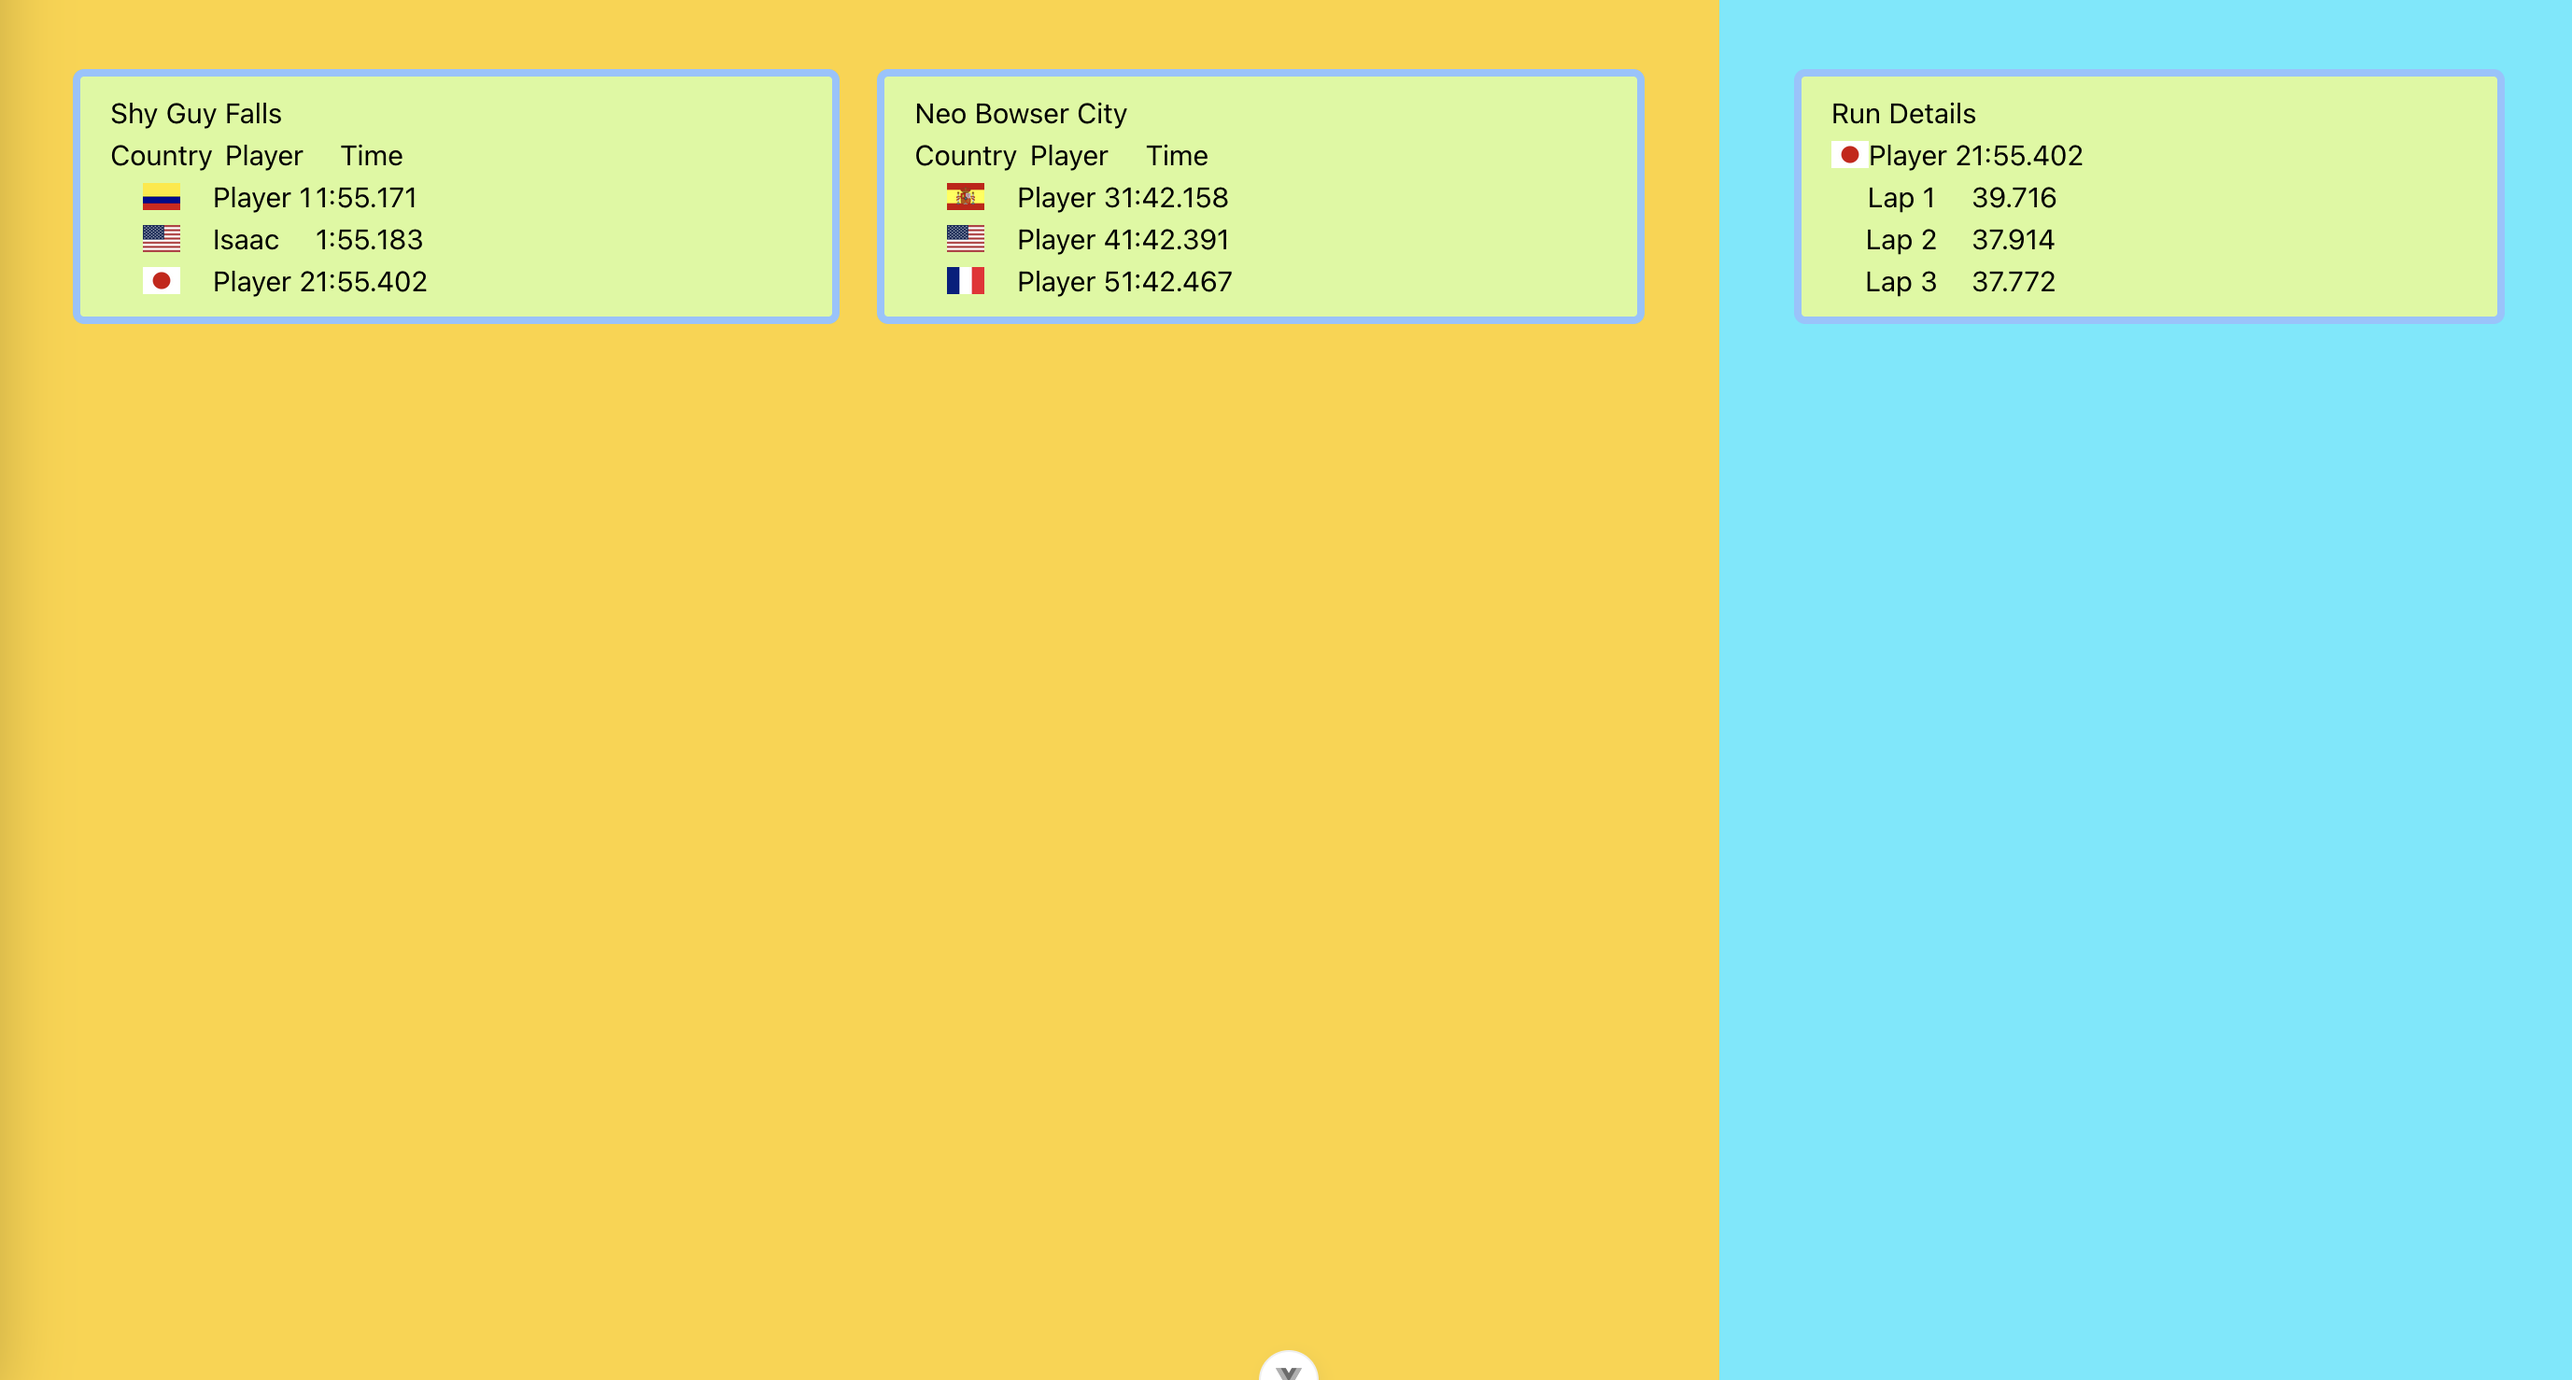
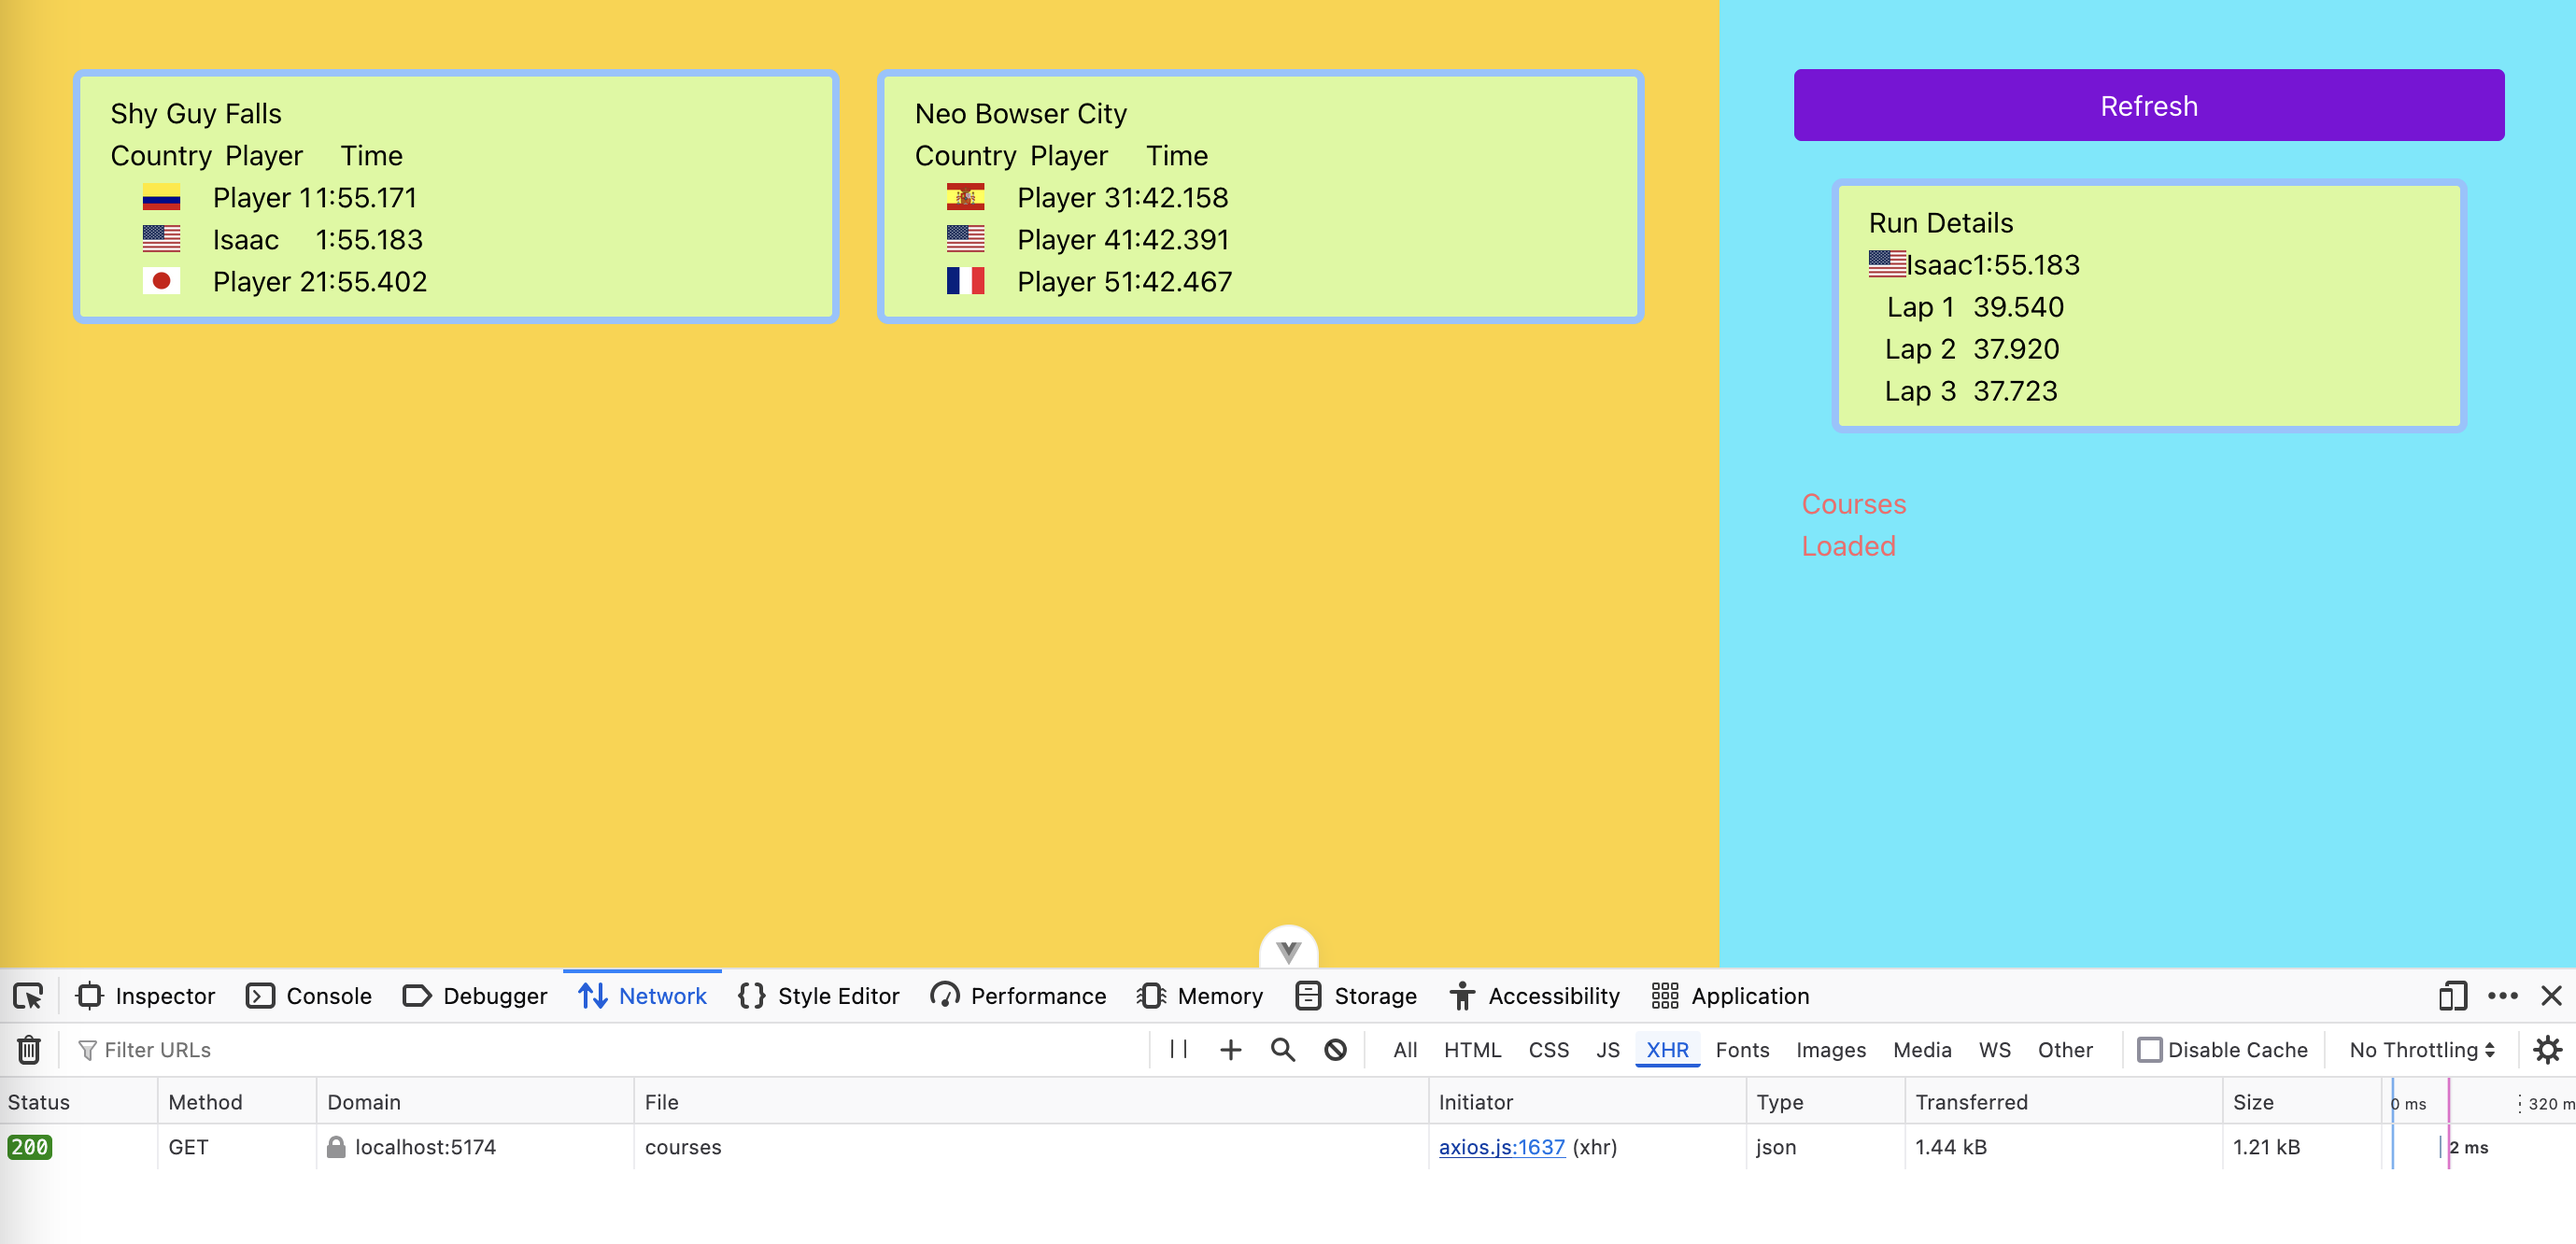
Request GET

diff --git a/src/App.vue b/src/App.vue
@@ -4,21 +4,62 @@
       <CourseView @playerSelected="onPlayerSelected" v-for="course in courseData" :course="course" />
     </div>
     <div class="w-1/3 bg-cyan-300 p-10">
-      <PlayerDetails v-if="currentPlayer" :player="currentPlayer" />
+      <div class="flex flex-col gap-y-3 bg-purple-700 hover:bg-purple-500 text-white font-bold py-2 px-4 rounded">
+        <button @click="load">Refresh</button>
+      </div>
+      <div class="p-5">
+        <PlayerDetails v-if="currentPlayer" :player="currentPlayer" />
+      </div>
+      <div class="size-16 px-1 py-1.5" :class="currentColor">
+        <h2>Courses Loaded</h2>
+      </div>
     </div>
   </div>
 </template>
 
 <script setup>
-import { ref } from 'vue'
+import axios from 'axios'
+import { ref, onMounted, computed } from 'vue'
 import CourseView from './components/CourseView.vue'
 import PlayerDetails from './components/PlayerDetails.vue'
-import { courseData } from './utils/constants.js'
+
+const colors = [
+  'text-red-400',
+  'text-orange-400',
+  'text-yellow-400',
+  'text-green-400',
+  'text-blue-400',
+  'text-purple-400',
+]
 
 const currentPlayer = ref(null)
 
+const courseData = ref([])
+
+const colorSelected = ref(colors.length - 1)
+const currentColor = computed(() => colors[colorSelected.value % colors.length])
+function loadNewColor() {
+  colorSelected.value = colorSelected.value + 1
+}
+
 function onPlayerSelected(player) {
   currentPlayer.value = player
+}
+
+onMounted(async () => {
+  await load()
+})
+
+async function load() {
+  const { data, status } = await axios.get(
+    "http://localhost:5174/courses"
+  )
+  if (status == 200) {
+    courseData.value = data
+    loadNewColor()
+  } else {
+    console.error("Failed to load data")
+  }
 }
 
 </script>

diff --git a/src/components/CourseView.vue b/src/components/CourseView.vue
@@ -11,7 +11,7 @@
       </thead>
       <tbody>
         <tr @click="onPlayerClicked(player)" v-for="player in course.players">
-          <td align="center"><img width="20" :src="`https://www.mkleaderboards.com/images/flags/${player.country}.png`" /></td>
+          <td class='m-10' align="center"><img width="20" :src="`https://www.mkleaderboards.com/images/flags/${player.country}.png`" /></td>
           <td>{{ player.name }}</td>
           <td>{{ player.finalTime }}</td>
         </tr>

diff --git a/index.html b/index.html
@@ -4,7 +4,7 @@
     <meta charset="UTF-8">
     <link rel="icon" href="/favicon.ico">
     <meta name="viewport" content="width=device-width, initial-scale=1.0">
-    <title>Vite App</title>
+    <title>MK8DX Courses</title>
   </head>
   <body class="h-screen">
     <div id="app" class="w-full h-full"></div>

diff --git a/README.md b/README.md
@@ -2,7 +2,7 @@ My Intro to Vue
 ======
 
 ### Introduction
-This is a repo used to display my progress on learning web dev.
+This is one of the many repos used to display my progress on web dev, as well as the frontend for my basic leaderboard learning project.
 
 ![(Preview)](images/preview.png)
 
@@ -12,42 +12,33 @@ These are the top three times on two tracks in Mario Kart 8 Deluxe (full leaderb
 This was completed using:
 
 * Vue
-* Tailwind CSS
 * JavaScript
+* Tailwind CSS
 * HTML
 
-Since my last ReadMe update, I've come around to:
+Updates:
 
-* Vue
-* Flexbox & Grid
-* Neater Styling
-* Support for Horizontally Crammed Windows (Sort Of)
-* Fixing my terrible habit of not putting a table head or body.
+* Axios GET Request
+* A button that resends that request and changes the color of the "Courses Loaded" text to confirm status 200.
 
-![(Preview)](images/preview2.png)
+This will not function correctly alone; don't forget about the [backend](https://github.com/FutureNine972/leaderboard-basic-flask) repo. Stick them both in one parent folder and then complete the necessary tasks for the backend virtual environment and frontend npm startup.
 
-If you wish to run and test this, just download the repo, cd into basic_vue, run `npm install` and `npm run dev`, and go to your localhost:xxxx
+###### JavaScript - Axios GET Request
 
-###### Vue/Tailwind - Player Details
+```js
+onMounted(async () => {
+  await load()
+})
 
-```html
-<div class=" border-blue-300 bg-lime-200 px-4 py-2 rounded-md border-4">
-    <p>Run Details</p>
-    <table>
-        <thead>
-            <tr>
-                <th><img width="20" :src="`https://www.mkleaderboards.com/images/flags/${player.country}.png`" />
-                </th>
-                <th>{{ player.name }}</th>
-                <th>{{ player.finalTime }}</th>
-            </tr>
-        </thead>
-        <tbody>
-            <tr v-for="lap in player.lapTimes">
-                <td colspan="2" align="center">Lap {{ lap.order }}</td>
-                <td colspan="1">{{ lap.time }}</td>
-            </tr>
-        </tbody>
-    </table>
-</div>
+async function load() {
+  const { data, status } = await axios.get(
+    "http://localhost:5174/courses"
+  )
+  if (status == 200) {
+    courseData.value = data
+    loadNewColor() // Changes the color of the "Courses Loaded" text element, just to show the button and request both work.
+  } else {
+    console.error("Failed to load data")
+  }
+}
 ```
